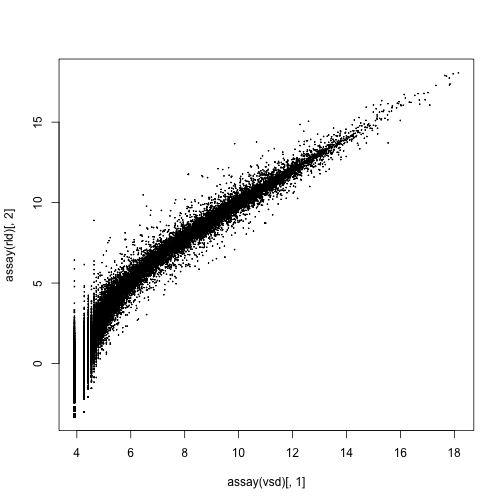
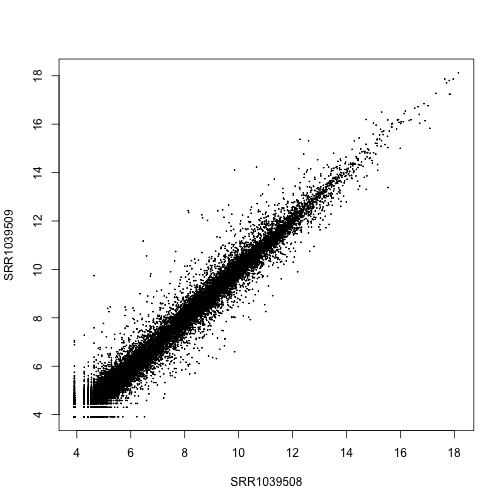
adding rnaseq_gene_level to book

diff --git a/pages/rnaseq_gene_level.md b/pages/rnaseq_gene_level.md
@@ -638,7 +638,7 @@ Now we will use a more sophisticated transformation, which is similar to the var
 
 ```r
 rld <- rlog(dds)
-plot(assay(rld)[,1], assay(rld)[,2], cex=.1)
+plot(assay(rld)[,1:2], cex=.1)
 ```
 
 ![plot of chunk unnamed-chunk-21](figure/rnaseq_gene_level-unnamed-chunk-21-1.png)
@@ -648,7 +648,7 @@ Another transformation for stabilizing variance in the *DESeq2* package is `vari
 
 ```r
 vsd <- varianceStabilizingTransformation(dds)
-plot(assay(vsd)[,1], assay(rld)[,2], cex=.1)
+plot(assay(vsd)[,1:2], cex=.1)
 ```
 
 ![plot of chunk unnamed-chunk-22](figure/rnaseq_gene_level-unnamed-chunk-22-1.png)
